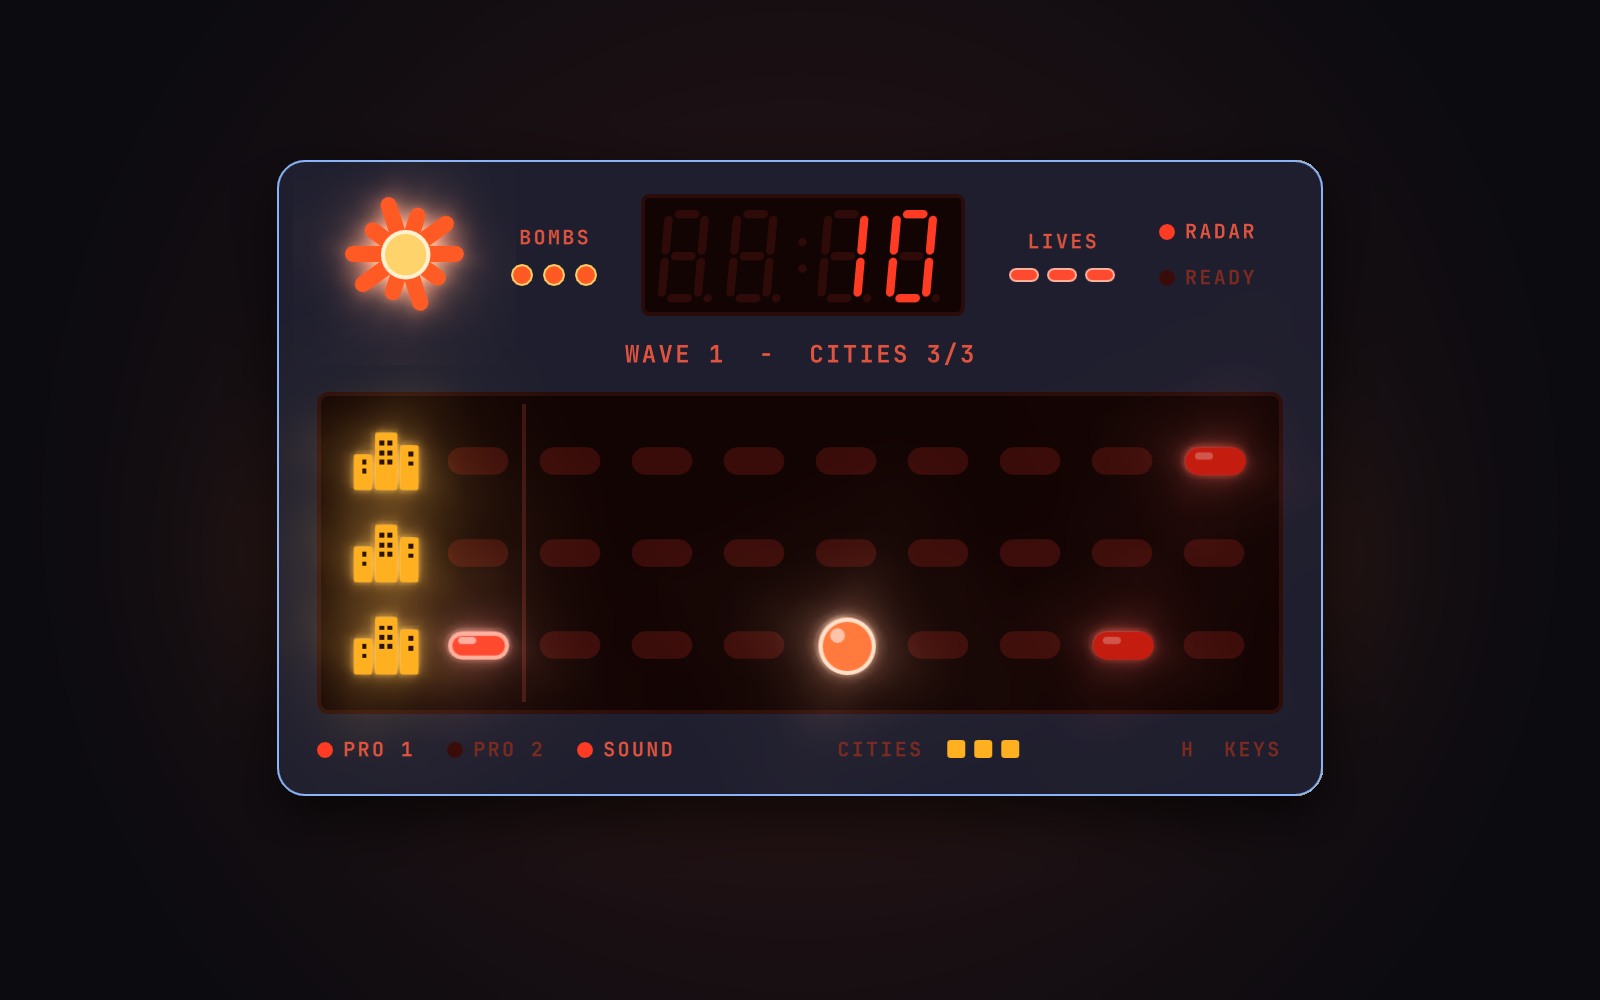
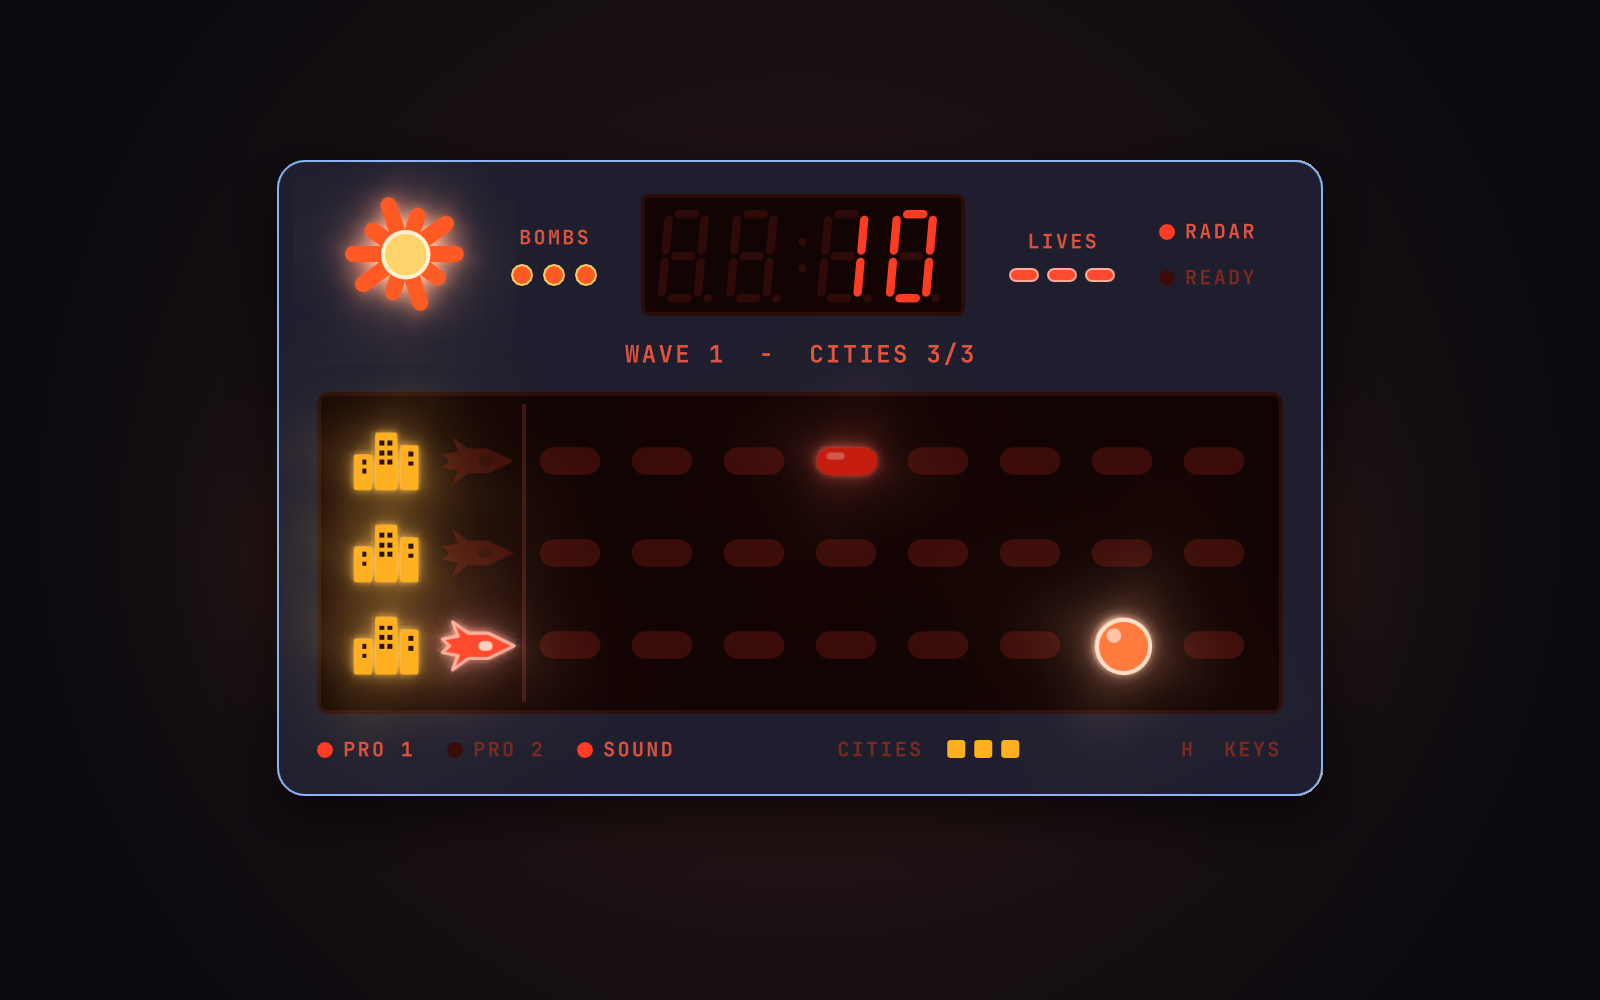
1.0.1: the launcher is a spaceship LED; refreshed preview

diff --git a/Sky.qml b/Sky.qml
@@ -3,6 +3,7 @@
 // in from the right. Unlit LEDs stay faintly visible like the real thing.
 import QtQuick
 import QtQuick.Effects
+import QtQuick.Shapes
 
 Rectangle {
   id: field
@@ -38,7 +39,8 @@ Rectangle {
     Rectangle {
       readonly property int level: field.leds.length > index ? field.leds[index] : 0
       readonly property bool city: index % field.cols === 0
-      visible: level === 0 && !city
+      readonly property bool track: index % field.cols === 1
+      visible: level === 0 && !city && !track
       x: field.ox + (index % field.cols) * field.cell + (field.cell - width) / 2
       y: field.oy + Math.floor(index / field.cols) * field.cell + (field.cell - height) / 2
       width: field.cell * (city ? 0.5 : 0.66)
@@ -54,6 +56,17 @@ Rectangle {
     CityIcon {
       lit: false
       x: field.ox + (field.cell - width) / 2
+      y: field.oy + index * field.cell + (field.cell - height) / 2
+    }
+  }
+
+  // The launcher's track, unlit: a dark spaceship in every lane it can be in.
+  Repeater {
+    model: field.lanes
+    ShipIcon {
+      fill: "#3a0c09"
+      cockpit: "#2a0907"
+      x: field.ox + field.cell + (field.cell - width) / 2
       y: field.oy + index * field.cell + (field.cell - height) / 2
     }
   }
@@ -104,11 +117,25 @@ Rectangle {
       }
     }
 
+    // The launcher, lit.
+    Repeater {
+      model: field.lanes
+      ShipIcon {
+        visible: field.leds.length > index * field.cols + 1 && field.leds[index * field.cols + 1] === 3
+        fill: "#ff4a30"
+        cockpit: "#ffd0c0"
+        edge: "#ffb19e"
+        x: field.glowPad + field.ox + field.cell + (field.cell - width) / 2
+        y: field.glowPad + field.oy + index * field.cell + (field.cell - height) / 2
+      }
+    }
+
     Repeater {
       model: field.cols * field.lanes
       Item {
         readonly property int level: field.leds.length > index ? field.leds[index] : 0
-        visible: level > 0 && level !== 6
+        // Cities and the launcher are drawn as their own shapes.
+        visible: level > 0 && level !== 6 && !(level === 3 && index % field.cols === 1)
         x: field.glowPad + field.ox + (index % field.cols) * field.cell
         y: field.glowPad + field.oy + Math.floor(index / field.cols) * field.cell
         width: field.cell
@@ -189,6 +216,57 @@ Rectangle {
           }
         }
       }
+    }
+  }
+
+  // The launcher: a small spaceship pointing right at the raiders, with a
+  // pointed nose, swept fins, a notched tail and a cockpit window.
+  component ShipIcon: Item {
+    id: ship
+    property color fill: "#ff4a30"
+    property color cockpit: "#ffd0c0"
+    property color edge: "transparent"
+    width: field.cell * 0.78
+    height: field.cell * 0.52
+
+    Shape {
+      anchors.fill: parent
+      preferredRendererType: Shape.CurveRenderer
+      ShapePath {
+        fillColor: ship.fill
+        strokeColor: ship.edge
+        strokeWidth: ship.edge === "transparent" ? 0 : 1.5
+        joinStyle: ShapePath.RoundJoin
+        PathPolyline {
+          readonly property real w: ship.width
+          readonly property real h: ship.height
+          path: [
+            Qt.point(1.00 * w, 0.50 * h),   // nose
+            Qt.point(0.64 * w, 0.24 * h),
+            Qt.point(0.36 * w, 0.24 * h),
+            Qt.point(0.14 * w, 0.00 * h),   // top fin
+            Qt.point(0.22 * w, 0.30 * h),
+            Qt.point(0.00 * w, 0.36 * h),   // tail
+            Qt.point(0.10 * w, 0.50 * h),   // tail notch
+            Qt.point(0.00 * w, 0.64 * h),
+            Qt.point(0.22 * w, 0.70 * h),
+            Qt.point(0.14 * w, 1.00 * h),   // bottom fin
+            Qt.point(0.36 * w, 0.76 * h),
+            Qt.point(0.64 * w, 0.76 * h),
+            Qt.point(1.00 * w, 0.50 * h)
+          ]
+        }
+      }
+    }
+
+    // Cockpit window.
+    Rectangle {
+      x: ship.width * 0.5
+      y: ship.height * 0.4
+      width: ship.width * 0.2
+      height: ship.height * 0.2
+      radius: height / 2
+      color: ship.cockpit
     }
   }
 }
